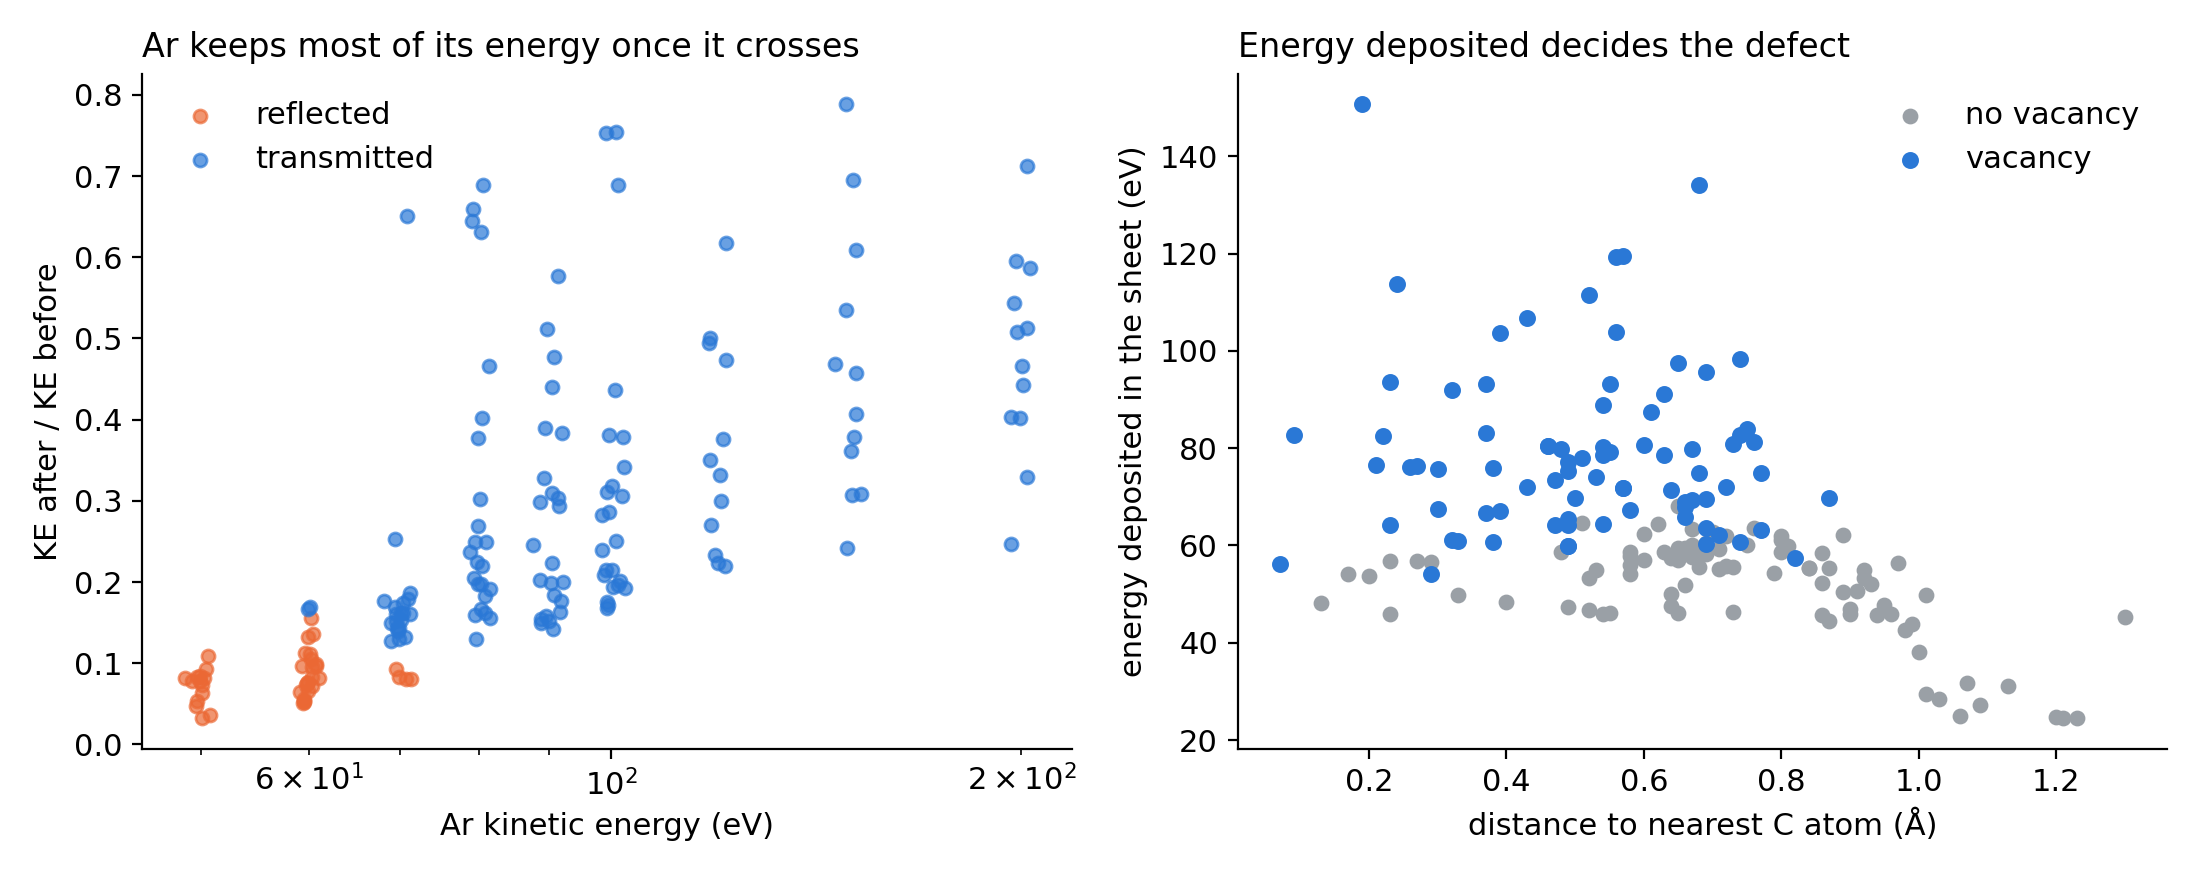
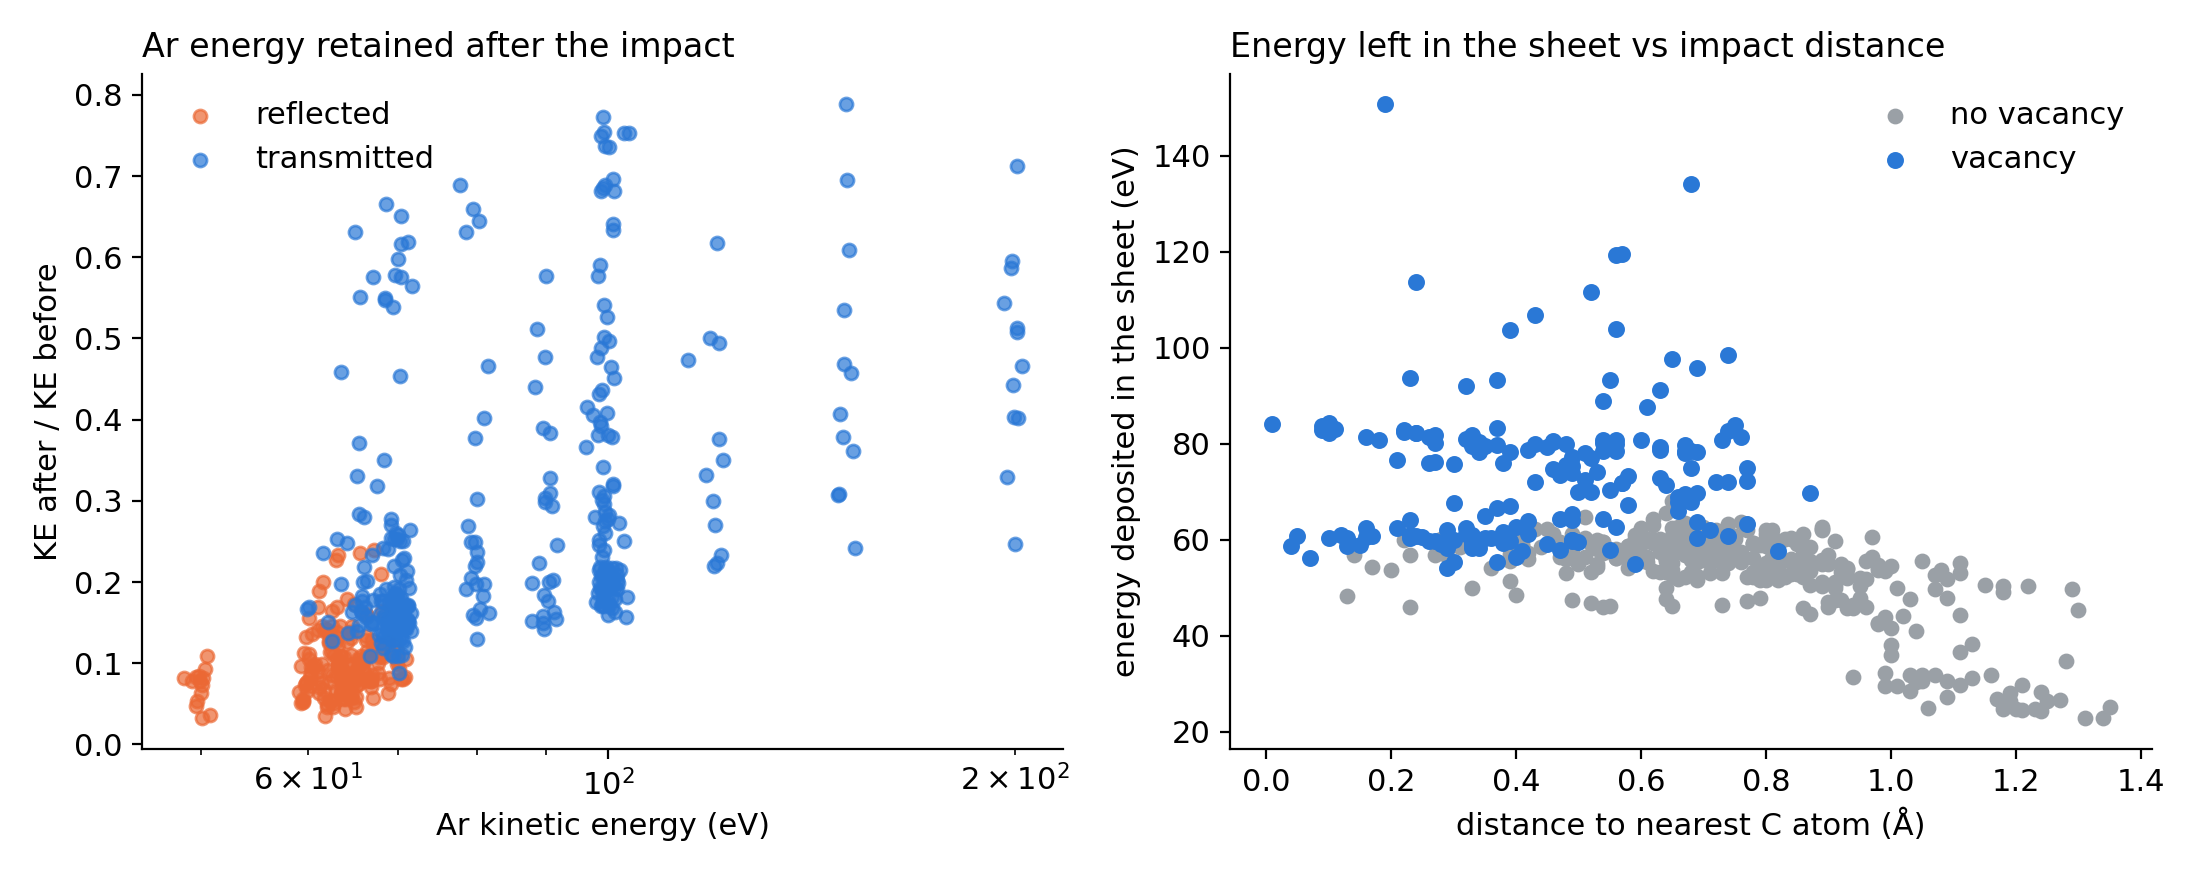
Fix figure titles and labels (energy loss, heating, outcome composition); mark low-N bars; update figures

diff --git a/07_plot_physics.py b/07_plot_physics.py
@@ -1,5 +1,5 @@
 #!/usr/bin/env python3
-"""Two physics figures from impact_analysis.csv.
+"""Three physics figures from impact_analysis.csv.
 
     python 07_plot_physics.py
 
@@ -22,6 +22,7 @@ p.add_argument("--csv", default="impact_analysis.csv")
 p.add_argument("--a0", type=float, default=2.419, help="lattice constant used for the sheet (A)")
 p.add_argument("--target", default="random")
 p.add_argument("--out", default=".")
+p.add_argument("--min-n", type=int, default=20, help="bars with fewer impacts are drawn faded (indicative only)")
 args = p.parse_args()
 
 BLUE, ORANGE, GREEN, PURPLE, GREY = "#2a78d6", "#eb6834", "#1baf7a", "#8a5cd0", "#9aa0a6"
@@ -123,12 +124,16 @@ frac = comp.div(comp.sum(axis=1), axis=0)
 fig, ax = plt.subplots(figsize=(8, 4.6))
 x = np.arange(len(frac))
 bottom = np.zeros(len(frac))
+small = comp.sum(axis=1).values < args.min_n          # few impacts: drawn faded, indicative only
 for c in order:
-    ax.bar(x, frac[c], bottom=bottom, color=cols[c], label=c, width=0.72, edgecolor="white", linewidth=0.8)
-    bottom += frac[c].values
+    v = frac[c].values
+    ax.bar(x[~small], v[~small], bottom=bottom[~small], color=cols[c], label=c, width=0.72, edgecolor="white", linewidth=0.8)
+    if small.any():
+        ax.bar(x[small], v[small], bottom=bottom[small], color=cols[c], alpha=0.5, width=0.72, edgecolor="white", linewidth=0.8)
+    bottom += v
 ax.set_xticks(x)
 ax.set_xticklabels([f"{e:.0f}\n(N={int(n)})" for e, n in zip(frac.index, comp.sum(axis=1))], fontsize=9)
-ax.set_xlabel("Ar kinetic energy (eV)")
+ax.set_xlabel("Ar kinetic energy (eV)" + (f"   (faded bars: N < {args.min_n}, indicative only)" if small.any() else ""))
 ax.set_ylabel("fraction of impacts")
 ax.set_title("What a random impact does, vs energy", loc="left", fontsize=13)
 ax.legend(loc="upper center", bbox_to_anchor=(0.5, -0.2), ncol=3, frameon=False, fontsize=9)

diff --git a/10_sheet_heating.py b/10_sheet_heating.py
@@ -7,7 +7,10 @@ The impact stage is microcanonical, so the energy the Ar leaves in the sheet rai
 cell this can be large. The script reads the thermo output of each run's log.lammps (sheet temperature every 1000 steps),
 and reports T at the start and at the end of the impact stage, dT = T_end - T_start, and the mean dT per energy.
 If 08_energy_loss.py has been run (energy_loss.csv) it also compares dT with the equipartition estimate
-dT ~ E_dep / (3 N kB) (an upper bound: about half of the deposited energy ends up as potential energy).
+dT ~ E_dep / (3 N kB). This estimate holds once the deposited energy is shared equally between kinetic and
+potential energy (harmonic lattice). It is read at the end of the impact stage, before that has happened, so the
+measured kinetic temperature can lie above it (up to about 2x if all the energy were still kinetic): it is an
+estimate of the scale, not an upper bound.
 Writes heating.csv and heating.png.
 """
 import argparse
@@ -82,9 +85,9 @@ plt.rcParams.update({"font.size": 11, "axes.spines.top": False, "axes.spines.rig
 fig, ax = plt.subplots(figsize=(6.4, 4.4))
 ax.scatter(res.E0, res.dT, s=22, c="#2a78d6", alpha=0.7, label="measured")
 if "dT_equipartition" in res:
-    ax.scatter(res.E0, res.dT_equipartition, s=14, c="#9aa0a6", marker="x", label="equipartition upper bound")
+    ax.scatter(res.E0, res.dT_equipartition, s=14, c="#9aa0a6", marker="x", label="equipartition estimate $E_{dep}/3Nk_B$")
 ax.set_xlabel("Ar kinetic energy (eV)")
-ax.set_ylabel("sheet heating during impact stage (K)")
+ax.set_ylabel("sheet temperature rise, end of impact stage (K)")
 ax.set_title(f"Heating of a {args.n_sheet}-atom periodic sheet", loc="left", fontsize=12)
 ax.legend(frameon=False)
 fig.tight_layout()

diff --git a/08_energy_loss.py b/08_energy_loss.py
@@ -80,14 +80,14 @@ for fate, c in (("reflected", ORANGE), ("transmitted", BLUE)):
 ax[0].set_xscale("log")
 ax[0].set_xlabel("Ar kinetic energy (eV)")
 ax[0].set_ylabel("KE after / KE before")
-ax[0].set_title("Ar keeps most of its energy once it crosses", loc="left", fontsize=12)
+ax[0].set_title("Ar energy retained after the impact", loc="left", fontsize=12)
 ax[0].legend(frameon=False)
 vac = res.n_vacant >= 1
 ax[1].scatter(res[~vac].d_impact, res[~vac].deposited, c=GREY, s=22, label="no vacancy")
 ax[1].scatter(res[vac].d_impact, res[vac].deposited, c=BLUE, s=26, label="vacancy")
 ax[1].set_xlabel("distance to nearest C atom (Å)")
 ax[1].set_ylabel("energy deposited in the sheet (eV)")
-ax[1].set_title("Energy deposited decides the defect", loc="left", fontsize=12)
+ax[1].set_title("Energy left in the sheet vs impact distance", loc="left", fontsize=12)
 ax[1].legend(frameon=False)
 fig.tight_layout()
 fig.savefig(f"{args.out}/energy_loss.png", dpi=200)
